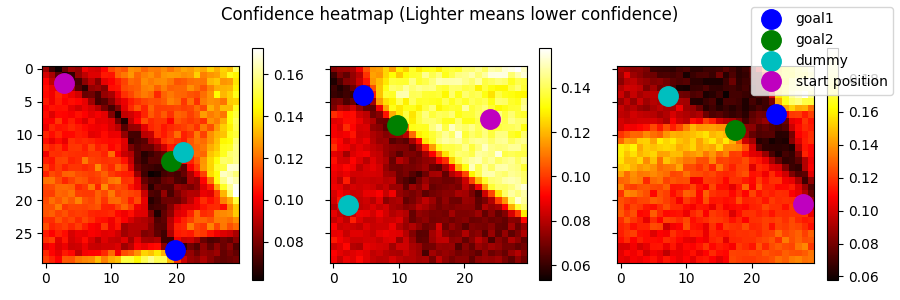
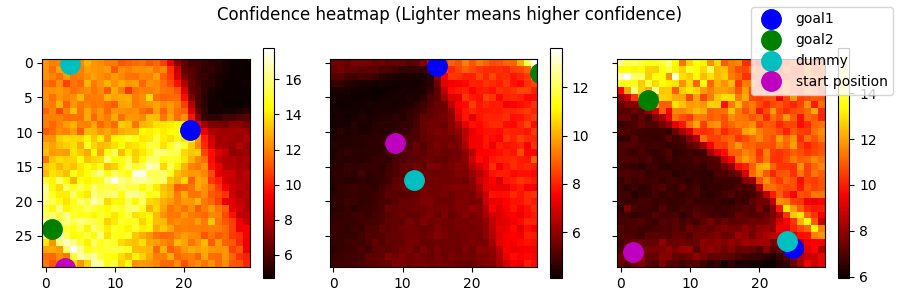
some code cleanup

diff --git a/plot_model_variation.py b/plot_model_variation.py
@@ -150,23 +150,17 @@ def main():
             z_mean_3 = z_mean_3[0]
             z_std_3 = z_std_3[0]
 
-            actions_1 = np.zeros((100, 2))
-            actions_2 = np.zeros((100, 2))
-            actions_3 = np.zeros((100, 2))
-            for idx in range(100):
-                z_1 = z_mean_1 + np.random.normal() * z_std_1
-                z_2 = z_mean_2 + np.random.normal() * z_std_2
-                z_3 = z_mean_3 + np.random.normal() * z_std_3
-                a_robot_1 = model.decoder([z_1], s_1)
-                a_robot_2 = model.decoder([z_2], s_2)
-                a_robot_3 = model.decoder([z_3], s_3)
-                actions_1[idx,:] = a_robot_1
-                actions_2[idx,:] = a_robot_2
-                actions_3[idx,:] = a_robot_3
-            # a_robot = np.mean(actions, axis=0)
-            heatmap_1[row,col] = np.std(actions_1)
-            heatmap_2[row,col] = np.std(actions_2)
-            heatmap_3[row,col] = np.std(actions_3)
+
+            z_1 = z_mean_1 + np.random.normal() * z_std_1
+            z_2 = z_mean_2 + np.random.normal() * z_std_2
+            z_3 = z_mean_3 + np.random.normal() * z_std_3
+            a_robot_1 = model.decoder([z_1], s_1)
+            a_robot_2 = model.decoder([z_2], s_2)
+            a_robot_3 = model.decoder([z_3], s_3)
+
+            heatmap_1[row,col] = 1/z_std_1
+            heatmap_2[row,col] = 1/z_std_2
+            heatmap_3[row,col] = 1/z_std_3
             # print(np.std(actions))
             col += 1
             # print(col)
@@ -199,7 +193,7 @@ def main():
     lines, labels = [sum(lol, []) for lol in zip(*lines_labels)]
     fig.legend(lines, labels)
 
-    plt.suptitle("Confidence heatmap (Lighter means lower confidence)")
+    plt.suptitle("Confidence heatmap (Lighter means higher confidence)")
     plt.tight_layout()
     plt.show()
 
